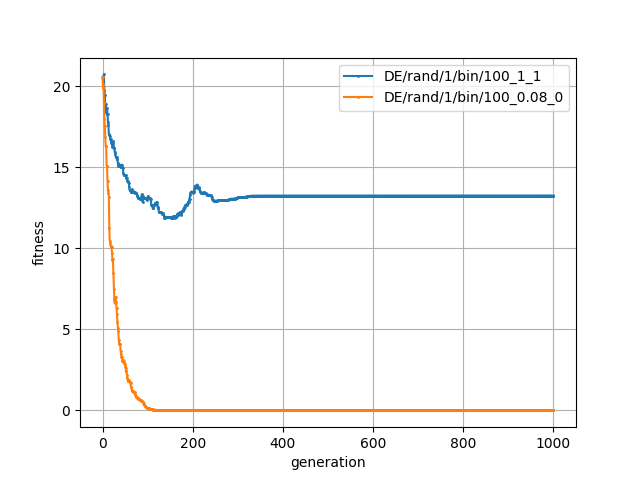
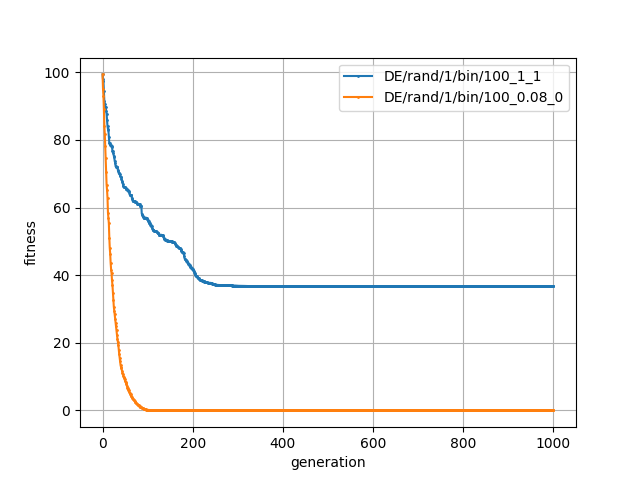
y軸が標準偏差になっている問題を修正

diff --git a/draw_graph.py b/draw_graph.py
@@ -22,7 +22,7 @@ def read_file(subject,G,trails):
     with open(subject,"r")as fr:
         for i in range(G+1):
             result[i] = fr.readline().split(",")
-    return result[:,trails]
+    return result[:,31]
 
 
 def make_scatterplot(result):
@@ -76,13 +76,14 @@ def read_es_file(G,trails):
         cnt += 1
     return result
 
-# data = []
-# cnt = 0
-# trails = 10
-# for subject in args.subject:
-#     G = 10**5/int(parameter[cnt][5])
-#     data.append(read_file(subject,int(G),trails))
-#     cnt += 1
+data = []
+cnt = 0
+trails = 33
+for subject in args.subject:
+    G = 10**5/int(parameter[cnt][5])
+    data.append(read_file(subject,int(G),trails))
+    cnt += 1
+make_scatterplot(data)
 
-data = read_es_file(1,100)
-make_estimate(data)
+# data = read_es_file(1,100)
+# make_estimate(data)
